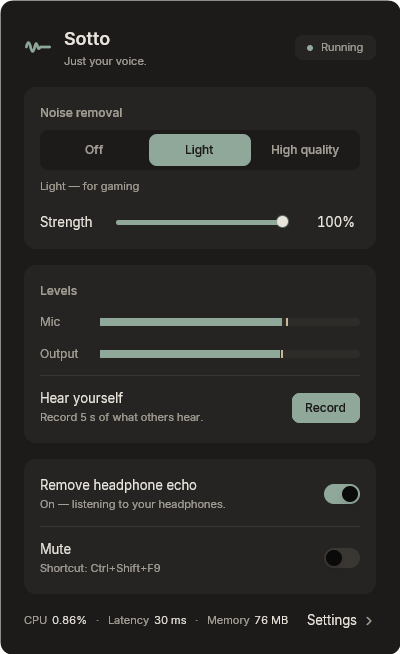
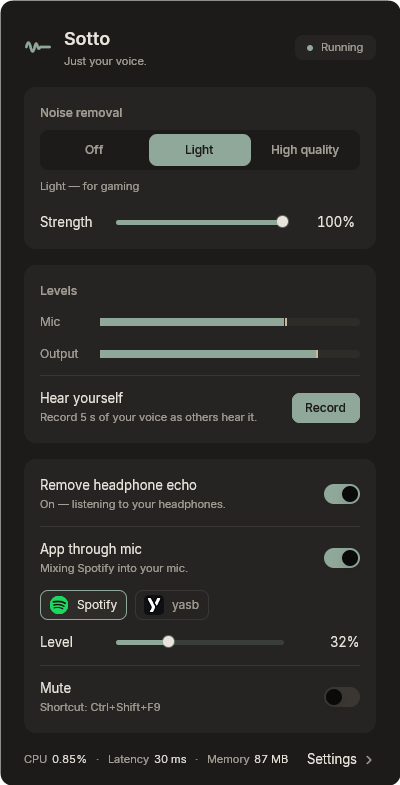
README: new window screenshot with App through mic

diff --git a/README.md b/README.md
@@ -13,7 +13,7 @@ so Discord, games and calls hear only you. Small, CPU-only, quiet while you play
 
 <br>
 
-<img src="assets/readme/sotto-window.png" width="400" alt="The Sotto window: noise removal set to Light, strength 100%, level meters showing a voice, Hear yourself, headphone echo removal on, mute with its shortcut, and a link to Settings">
+<img src="assets/readme/sotto-window.png" width="400" alt="The Sotto window: noise removal set to Light, strength 100%, level meters showing a voice, Hear yourself, headphone echo removal on, App through mic on and mixing Spotify (picked from app icons) with its level slider, mute with its shortcut, and a link to Settings">
 
 </div>
 
